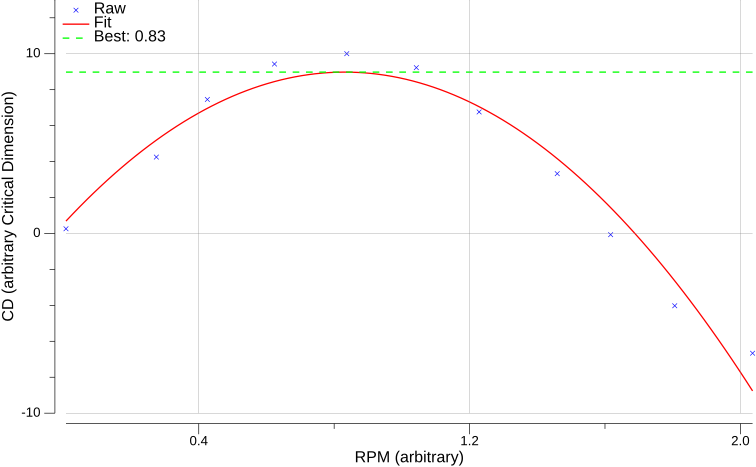
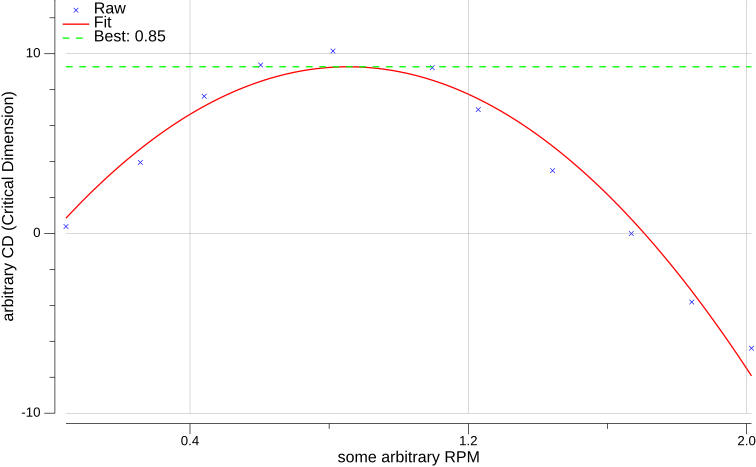
Cleaning up the code.

diff --git a/cmd/main.go b/cmd/main.go
@@ -16,12 +16,8 @@ import (
 	"github.com/schmeister/FitGo/pkg/funcs"
 )
 
-// http://mariotapilouw.blogspot.com/2012/03/
-// https://cars9.uchicago.edu/software/python/lmfit/examples/documentation/parameters_basic.html
-// https://github.com/lmfit/lmfit-py/tree/master/lmfit
-
-type MyFunc func(x float64, ps []float64) float64
-type MyDerv func(x float64, ps []float64) (float64, float64)
+type FitFunc func(x float64, ps []float64) float64
+type FitDerv func(x float64, ps []float64) (float64, float64)
 
 type Points struct {
 	xdata []float64
@@ -30,22 +26,22 @@ type Points struct {
 
 // Raw data generation
 type Raw struct {
-	Params    []float64
-	XVariance float64
-	YVariance float64
+	Params    []float64 // Parameters used in the FitFunc
+	Func      FitFunc	// Function used to generate the raw data
+	XVariance float64	// Amount of variance in X direction
+	YVariance float64	// Amount of variance in Y direction
 	Origin    float64
-	Min       float64
-	Max       float64
+	XMin       float64
+	YMax       float64
 	Step      float64
 	Steps     int16
-	Func      MyFunc
 }
 
 type Fitting struct {
 	// Fit start data
 	startParams []float64
 	points      Points
-	Func        MyFunc
+	Func        FitFunc
 }
 
 type Plotting struct {
@@ -61,27 +57,27 @@ type Plotting struct {
 	plot_Y_Max   float64
 
 	// Formula
-	fitFunc MyFunc
-	fitDerv MyDerv
+	fitFunc FitFunc
+	fitDerv FitDerv
 }
 
 // Main
 func main() {
 	rand.Seed(time.Now().UnixNano())
 
-	// Define how the raw data is going to be generated.
+	// Define raw data generator.
 	raw := Raw{
 		// amp, omega, shift, decay
 		Params:    []float64{10.0, 2.0, 0, .025},
+		Func:      funcs.SineFunc,
 		XVariance: 0.05,
 		YVariance: 0.3,
-		Min:       0,
-		Max:       2,
+		XMin:       0,
+		YMax:       2,
 		Step:      0.1,
 		Steps:     10,
-		Func:      funcs.SineFunc,
 	}
-	points := Generate(raw)
+	points := raw.Generate()
 
 	// sine parameters: [amp, omega, shift, decay]
 	ExecuteFitAndGraph(points, funcs.SineFunc, funcs.SineDerv, []float64{10.0, 2.0, 0, .025}, "sine")
@@ -90,18 +86,18 @@ func main() {
 
 // Generate creates a number of points to attempt a fit to.
 // There is a randomization added to each point to create some variability.
-func Generate(raw Raw) Points {
+func (raw Raw) Generate() Points {
 	xdata := make([]float64, 0)
 	ydata := make([]float64, 0)
 	min := 0.0
-	max := raw.Max - raw.Min
+	max := raw.YMax - raw.XMin
 	step := (max - min) / float64(raw.Steps)
 	for i := min; i <= max; i += step {
 		// Create the real calculated value from the function f(x).
 		val := raw.Func(i, raw.Params)
 
 		// Include some Randomization and store in slice.
-		xdata = append(xdata, i+raw.Min+(rand.Float64()*2*raw.XVariance))
+		xdata = append(xdata, i+raw.XMin+(rand.Float64()*2*raw.XVariance))
 		ydata = append(ydata, val+(rand.Float64()*2*raw.YVariance))
 	}
 
@@ -133,8 +129,8 @@ func ExecuteFitAndGraph(points Points,
 	plotting := Plotting{
 		fitted:       fitted,
 		raw:          points,
-		plot_X_Label: "RPM (arbitrary)",
-		plot_Y_Label: "CD (arbitrary Critical Dimension)",
+		plot_X_Label: "some arbitrary RPM",
+		plot_Y_Label: "arbitrary CD (Critical Dimension)",
 		plot_X_Min:   points.xdata[0],
 		plot_X_Max:   points.xdata[len(points.xdata)-1],
 		plot_Y_Min:   -10.0,

diff --git a/pkg/funcs/funcs.go b/pkg/funcs/funcs.go
@@ -1,6 +1,8 @@
 package funcs
 
-import "math"
+import (
+	"math"
+)
 
 // Sine functions
 func SineFunc(x float64, ps []float64) float64 {
@@ -9,13 +11,17 @@ func SineFunc(x float64, ps []float64) float64 {
 }
 
 func SineDerv(x float64, ps []float64) (float64, float64) {
-	// Find the wave that we are in.
+	// Find the wave that we are in, use this as our basline
 	k := math.Trunc(x / math.Pi)
 
 	// Only care about the frequency, not the amplitude or dampening.
-	// Take the derivative of the sin function
+	// Take the derivative of the sin part
 	// Solve for zero (where the slope is zero)
 	fPx := ps[0] * math.Cos(ps[1]*k+ps[2])
+
+	// Calculate and return the actual X position
+	// This is taken from the definition of Cos(x) == 0: pi/2
+	// Then subtract the angle and divide by the frequency
 	resX := ((math.Pi / 2.0) + 2.0*k*math.Pi - ps[2]) / ps[1]
 	return resX, fPx
 }
@@ -26,6 +32,10 @@ func PolyFunc(x float64, ps []float64) float64 {
 }
 
 func PolyDerv(_ float64, ps []float64) (float64, float64) {
+	// f'(x) = 2*ps[0] * x + ps[1]
+	// Solve f'(x) for 0 (where the slope is zero)
+	// 0 = 2*ps[0] * x + ps[1]
+	// -ps[1] / (2*ps[0]) = x
 	x := -ps[1] / (2 * ps[0])
 	return x, PolyFunc(x, ps)
 }

diff --git a/testdata/Functions.tex b/testdata/Functions.tex
@@ -9,11 +9,13 @@ Meaning the next equation has no integer solutions:
 
 $f(x) = A \cdot sin(\omega x + \Phi) \cdot e^{-x^2 \cdot \lambda}$\\
 
+$f'(x) = A \cdot \omega \cdot cos(\omega x + \Phi)$\\
+
 $A$ - Amplitude
 
 $\omega$ - Frequency
 
-$x$ - Spin Speed
+$x$ - Interference rate
 
 $\Phi$ - Phase shift
 
